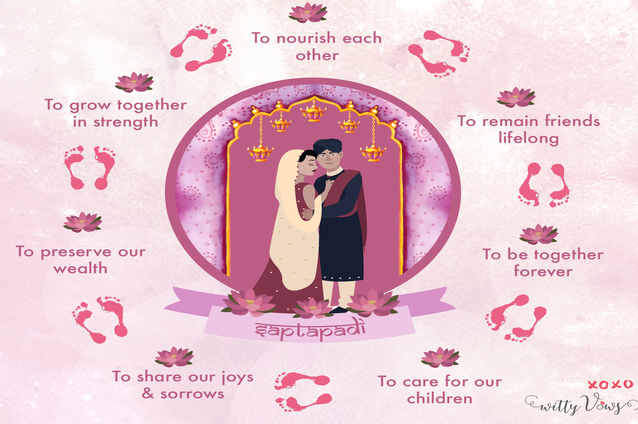
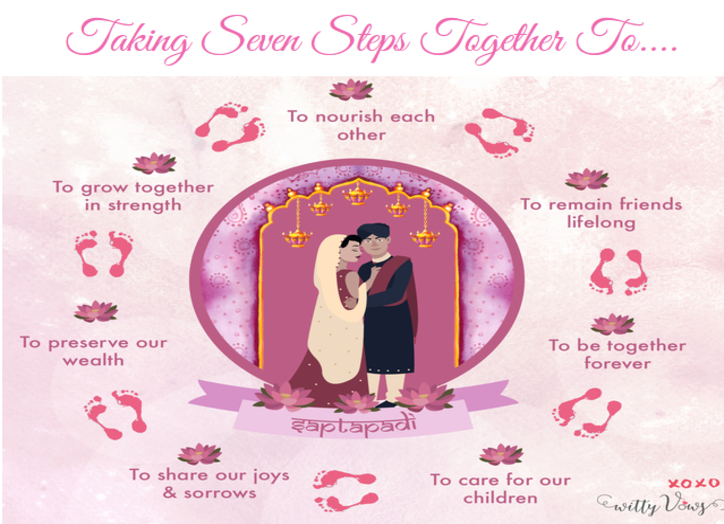
alignment changes made

diff --git a/index.html b/index.html
@@ -137,8 +137,8 @@ Smartphone Compatible web template, free webdesigns for Nokia, Samsung, LG, Sony
 	   <div class="welcome">
 		    <div class="container">
 				<div class="welcome-top">
-					<h1>Taking Seven Steps Together To....</h1>
 				    <img src="images/couple.jpg" class="img-responsive" alt="">
+					<!-- <h2>Taking Seven Steps Together To....</h2> -->
 					 <!-- <h2 id="sloka">“Mangalam Bhagwan Vishnu Mangalam Garuda Dhwaja, Managalam Pundarikaksha Mangalaye Tano Hari”</h2> -->
 					 <!-- <p>Sed ut perspiciatis unde omnis iste natus error sit voluptatem accusantium doloremque laudantium, totam rem aperiam, eaque ipsa quae ab illo inventore veritatis et quasi architecto beatae vitae dicta sunt explicabo. Nemo enim ipsam voluptatem quia.</p> -->
 					   <!-- <a class="read" href="single.html">Read More</a> -->
@@ -287,11 +287,11 @@ Smartphone Compatible web template, free webdesigns for Nokia, Samsung, LG, Sony
 				 </div>
 			  <h3 class="tittle find">Find Us at Wedding on 30 July</h3>
 				 <div class="map">
-<iframe src="https://www.google.com/maps/embed?pb=!1m18!1m12!1m3!1d3802.103711470219!2d79.04529110215569!3d17.645246340270493!2m3!1f0!2f0!3f0!3m2!1i1024!2i768!4f13.1!3m3!1m2!1s0x3bcb5ddf7256db15%3A0x27cd52602534e927!2sDonthiri+Somireddy+Garden+Function+Hall%2C!5e0!3m2!1sen!2sin!4v1500191366832" width="600" height="450" frameborder="0" style="pointer-events:none;border:0" allowfullscreen></iframe>
+<iframe src="https://www.google.com/maps/embed?pb=!1m18!1m12!1m3!1d3802.103711470219!2d79.04529110215569!3d17.645246340270493!2m3!1f0!2f0!3f0!3m2!1i1024!2i768!4f13.1!3m3!1m2!1s0x3bcb5ddf7256db15%3A0x27cd52602534e927!2sDonthiri+Somireddy+Garden+Function+Hall%2C!5e0!3m2!1sen!2sin!4v1500191366832" width="600" height="450" frameborder="0" style="border:0" allowfullscreen></iframe>
 				 </div>
 				 <h3 class="tittle find">Find Us at Reception on 1st August</h3>
    				 <div class="map">
-				 <iframe src="https://www.google.com/maps/embed?pb=!1m18!1m12!1m3!1d3805.3612655129714!2d78.44350194927722!3d17.49025978795823!2m3!1f0!2f0!3f0!3m2!1i1024!2i768!4f13.1!3m3!1m2!1s0x3bcb9046a3789379%3A0x3896ac2254469c4b!2sYMS+Function+Hall+II%2C+Nanda+Nagar%2C+Balanagar%2C+Hyderabad%2C+Telangana+500037!5e0!3m2!1sen!2sin!4v1500192714658" width="600" height="450" frameborder="0" style="pointer-events:none;border:0" allowfullscreen></iframe>
+				 <iframe src="https://www.google.com/maps/embed?pb=!1m18!1m12!1m3!1d3805.3612655129714!2d78.44350194927722!3d17.49025978795823!2m3!1f0!2f0!3f0!3m2!1i1024!2i768!4f13.1!3m3!1m2!1s0x3bcb9046a3789379%3A0x3896ac2254469c4b!2sYMS+Function+Hall+II%2C+Nanda+Nagar%2C+Balanagar%2C+Hyderabad%2C+Telangana+500037!5e0!3m2!1sen!2sin!4v1500192714658" width="600" height="450" frameborder="0" style="border:0" allowfullscreen></iframe>
 				 </div>
 		 </div>
 	   <!--/footer-->

diff --git a/css/style.css b/css/style.css
@@ -529,6 +529,11 @@ select option {
 	margin-left: -26px;
 }
 
+.welcome-top img {
+
+    margin-bottom : 50px;
+}
+
 .welcome-top h1 {
 
     margin-top: 26px;
